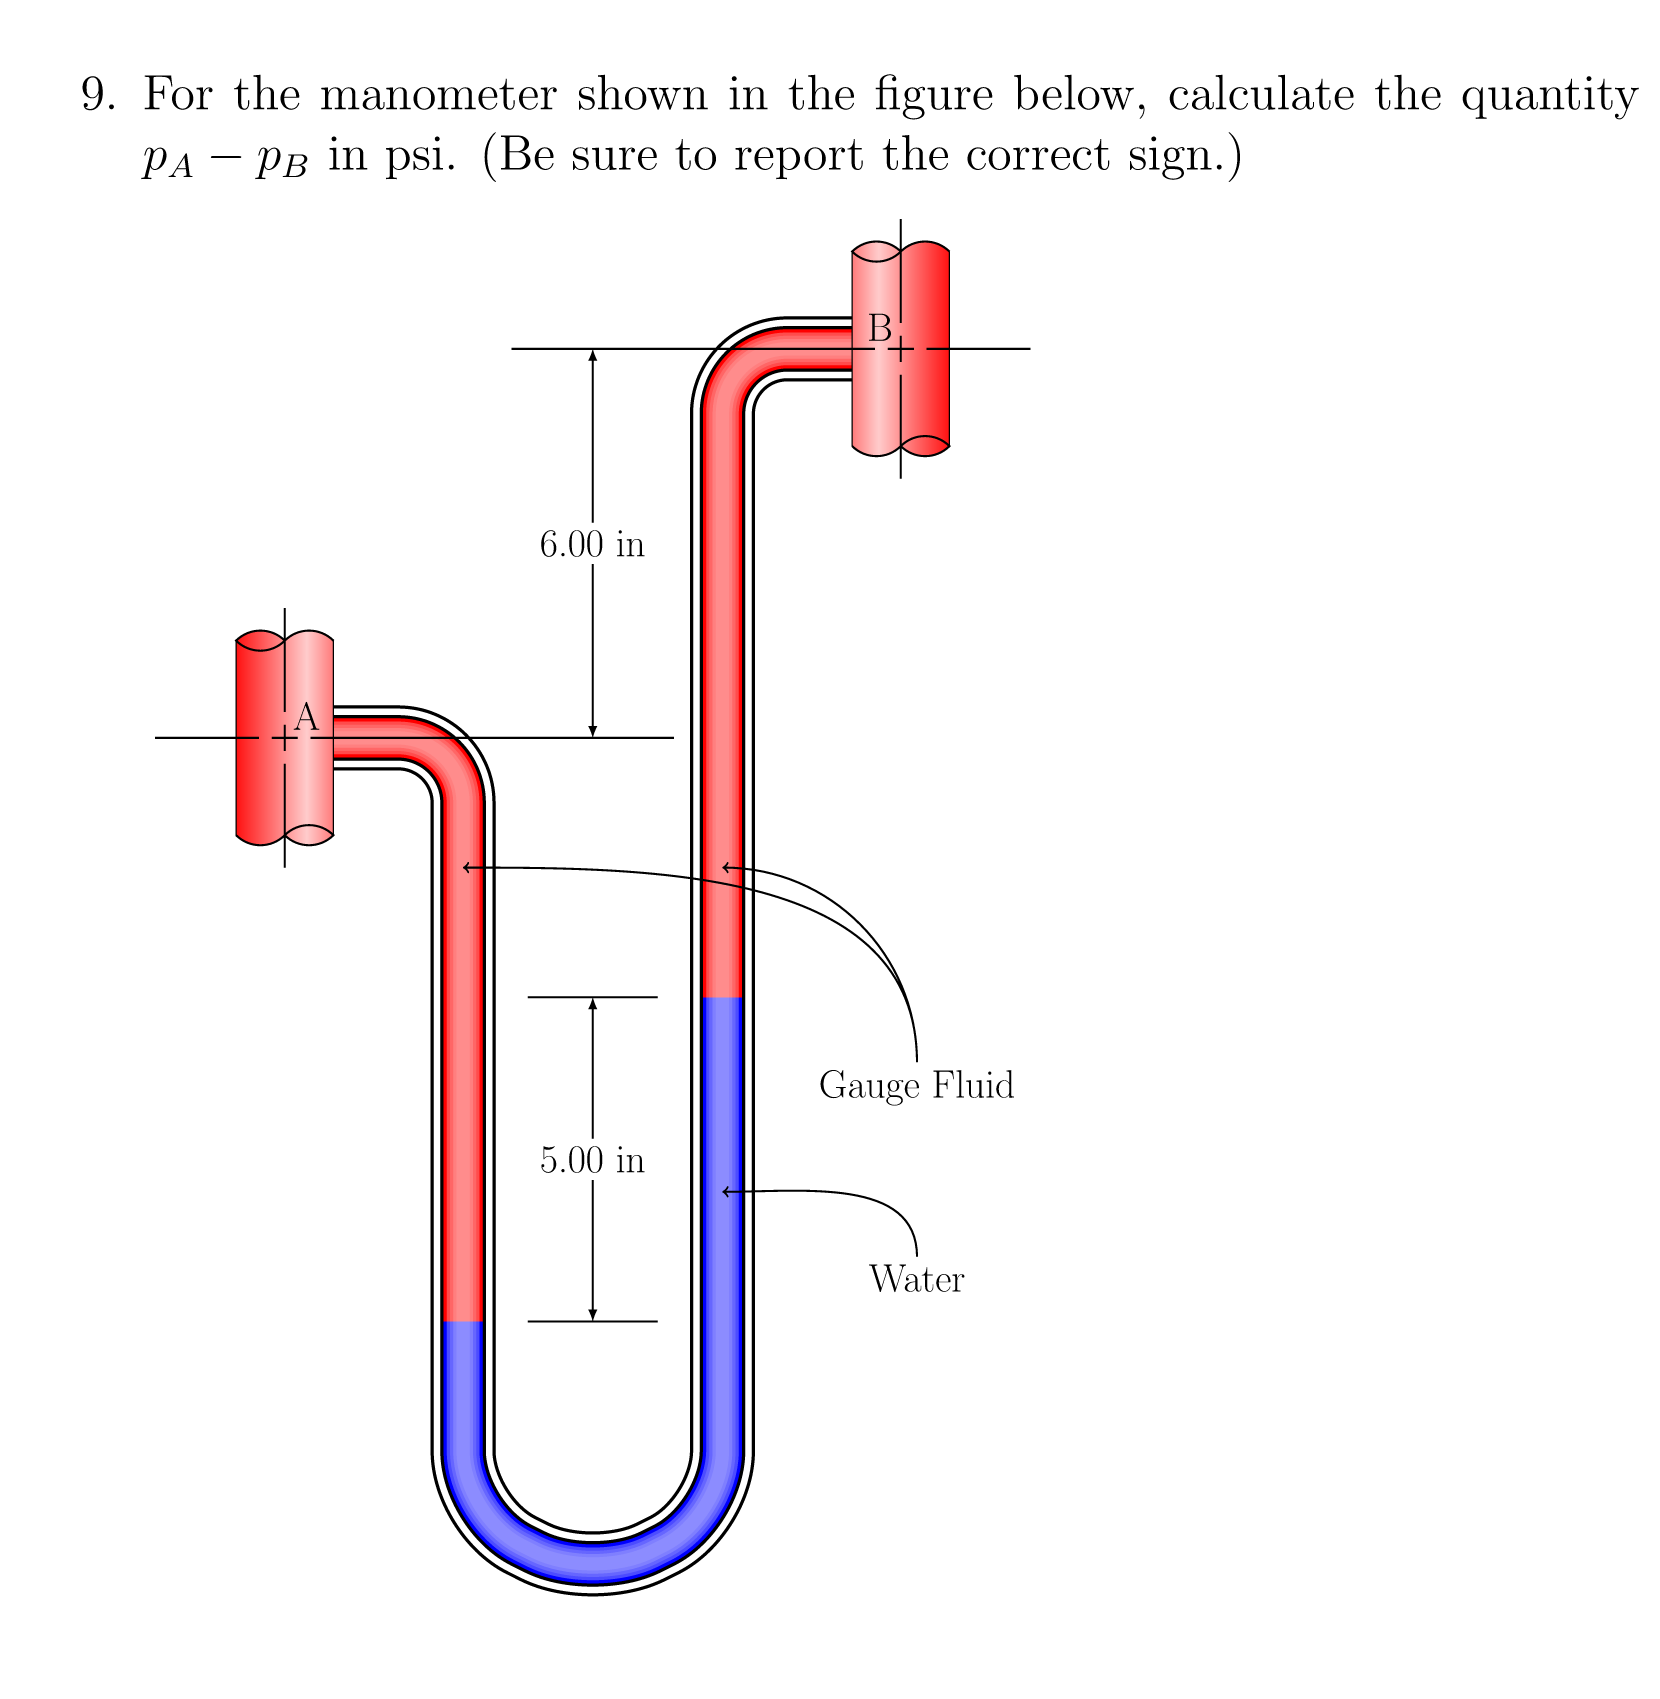
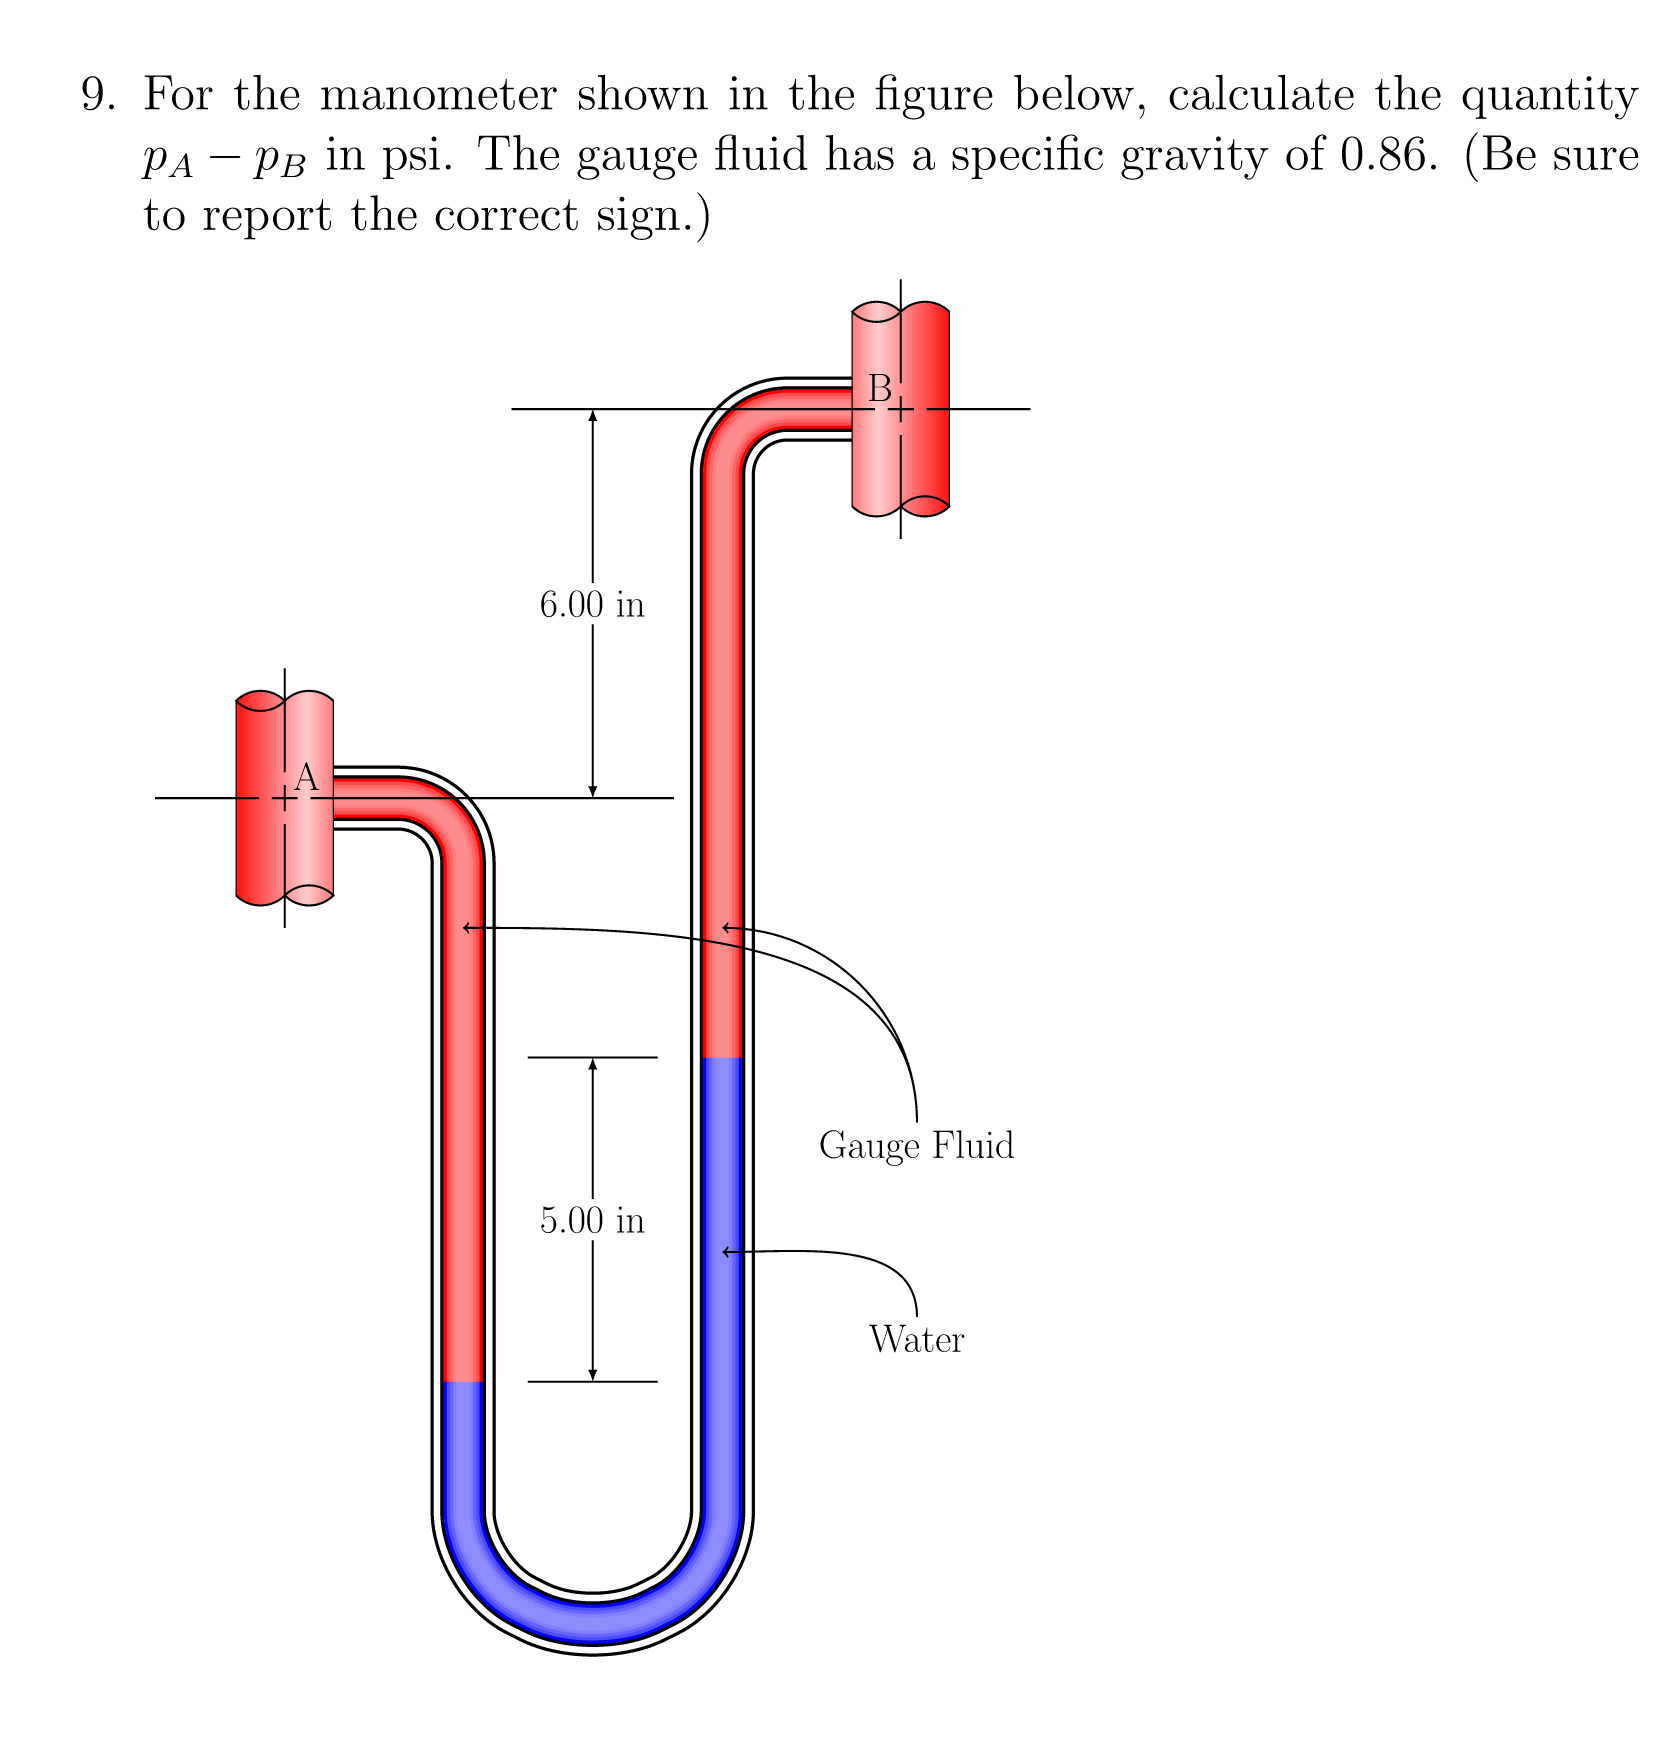
update

diff --git a/teaching/grades.html b/teaching/grades.html
@@ -9,6 +9,7 @@
       <meta name="description" content="">
       <title>Course Grades</title>
       <link rel='stylesheet' href='/styles/mystyle.css' />
+      <script type="text/javascript" src="http://www.google.com/jsapi"></script>
 
    </head>
 
@@ -16,7 +17,7 @@
 <body>
 
 
-  
+
 
 
 <style type="text/css">
@@ -128,7 +129,11 @@ function search_navigate() {
         myHTML += "</tr></table>"
         document.getElementById("display").innerHTML = myHTML;
       }
-        return;
+
+      var dis = document.getElementById("display");
+      dis.innerHTML = "Error in query ... please try again.";
+
+    return;
     }
 </script>
 

diff --git a/teaching/Applied-Fluids/Homework/unit3.tex b/teaching/Applied-Fluids/Homework/unit3.tex
@@ -103,7 +103,8 @@ Calculate the pressure at point A in kPa (gauge).
 
 \begin{question}
 For the manometer shown in the figure below, calculate the quantity
-$p_A - p_B$ in psi.  (Be sure to report the correct sign.)
+$p_A - p_B$ in psi.  The gauge fluid has a specific gravity of 0.86.
+(Be sure to report the correct sign.)
 
 \includegraphics[width=3in]{imgs/mono4.pdf}
 
